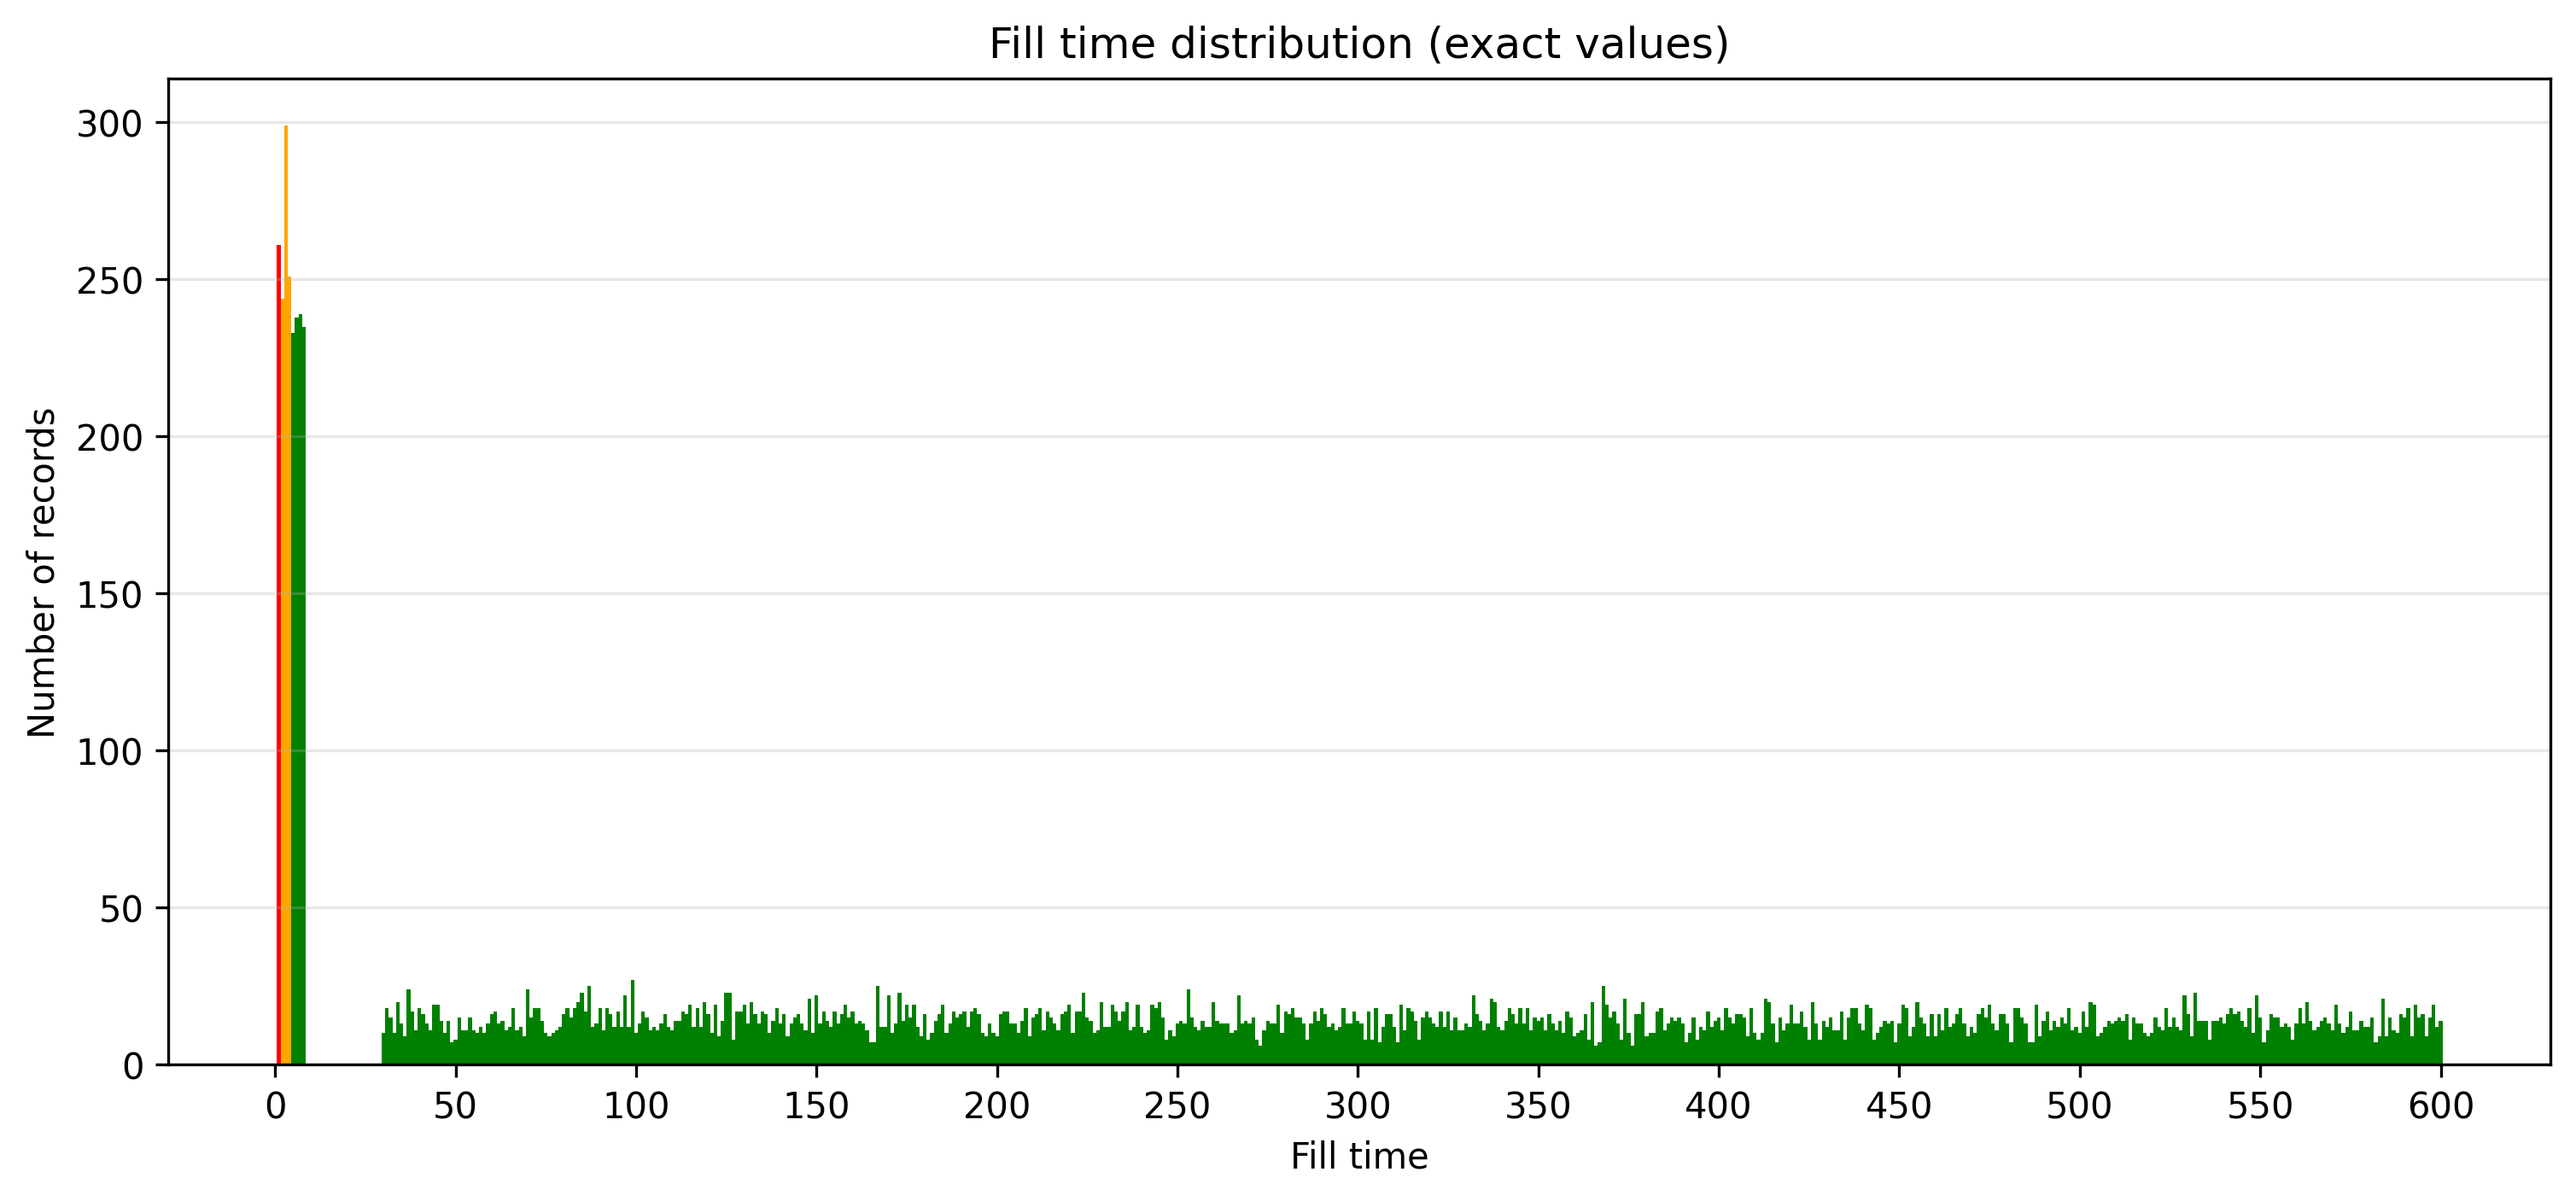
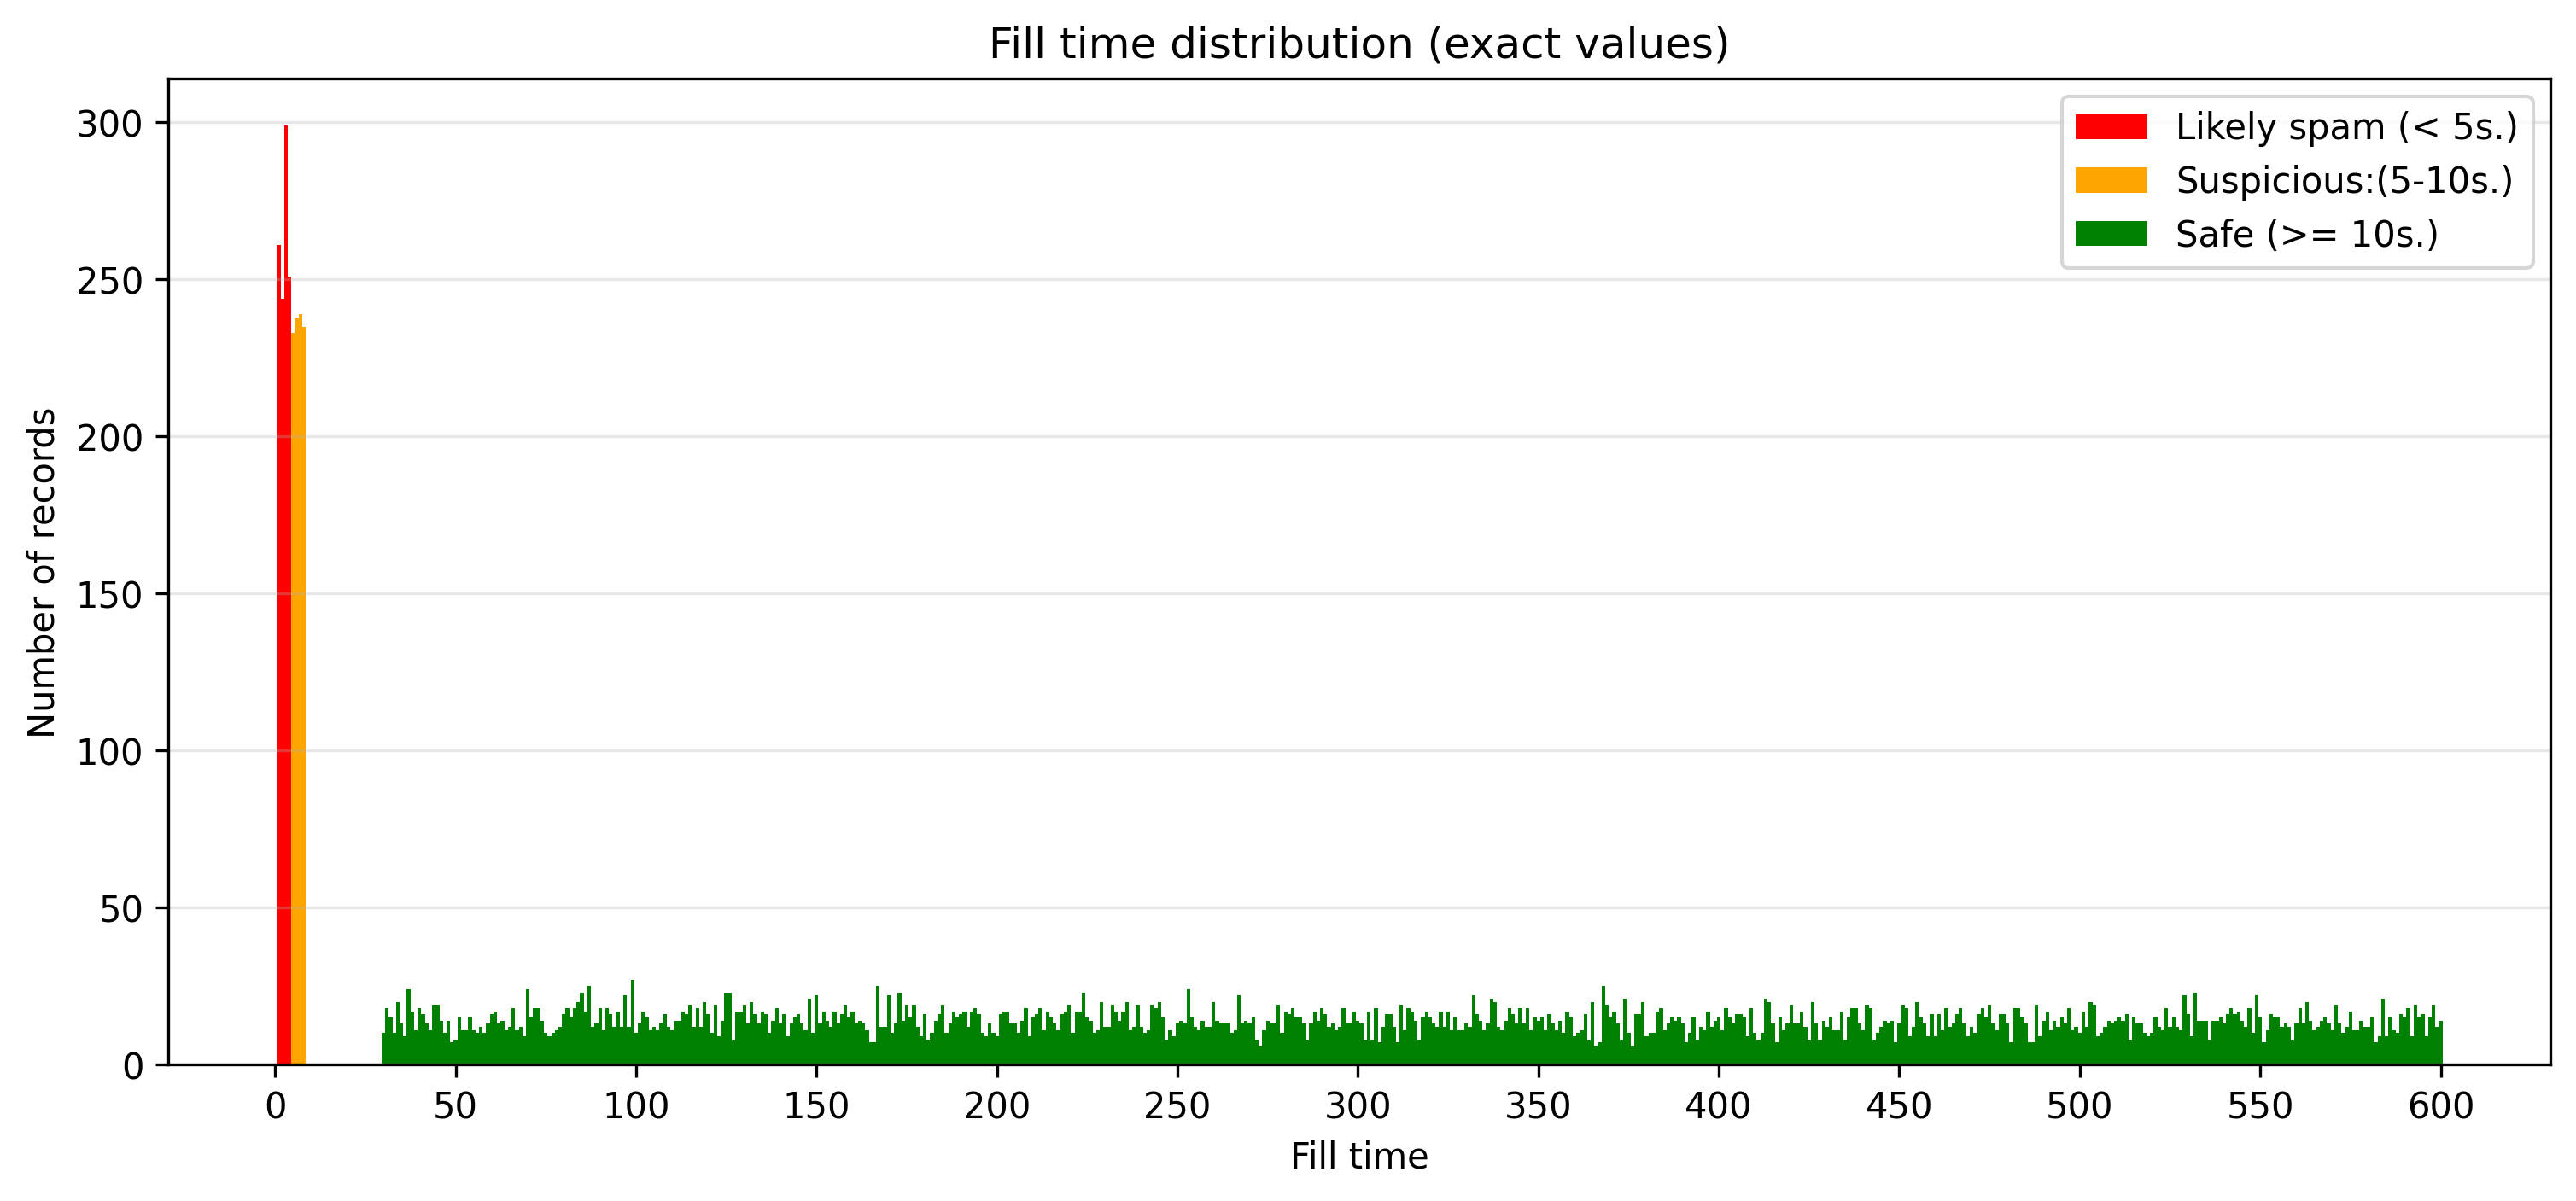
ultimate adjustments and fixes

Changed region(s): [[0.7789, 0.0917, 0.997, 0.2139], [0.0935, 0.2445, 0.1246, 0.8863]]

diff --git a/complete_report.html b/complete_report.html
@@ -175,7 +175,33 @@ function closeModal() {
             </div>
             <div class="card">
                 <h3>Conclusions </h3>
-                <p class="box">The score distribution reveals two distinct high-risk clusters, suggesting the presence of at least two different spam strategies: low-effort automated submissions and more sophisticated adaptive bots attempting to mimic human behavior.</p>
+                <p>The score distribution reveals two distinct high-risk clusters, suggesting the presence of at least two different spam strategies: low-effort automated submissions and more sophisticated adaptive bots attempting to mimic human behavior.</p>
+                <hr>
+                <h4>Scoring:</h4>
+                <table>
+                    <tbody>
+                    
+                        <tr>
+                            <td>Honeypot flag</td>
+                            <td>+100pkt</td>
+                        </tr>
+                    
+                        <tr>
+                            <td>User agent (python-request / SEObot)</td>
+                            <td>+70pkt</td>
+                        </tr>
+                    
+                        <tr>
+                            <td>Fast submit ( < 3s )</td>
+                            <td>+20pkt</td>
+                        </tr>
+                    
+                    </tbody>
+                </table>
+                <h4>Scoring explanation:</h4>
+                <p>The honeypot flag (a frontend form field hidden from regular users) is considered a strong warning signal, although it is not always definitive due to browser autocomplete behavior.
+The user agents 'python-requests' and 'SEObot' are treated as strong warning signals, as they commonly indicate automated or scripted activity.
+Very fast form submission time (< 3 seconds) is treated as a mild warning signal, since it may also result from autocomplete usage or accidental browser/session behavior.</p>
             </div>
 
             <div class="card">
@@ -189,12 +215,29 @@ function closeModal() {
             </div>
 
             <div class="card">
+                <h3>Activity of last max 6 days</h3>
+                <img src="report/plots/activity_over_last_6_days.png" class="plot" onclick="openModal(this.src)">
+                <p class="zoom-hint">Click to zoom</p>
+            </div>
+            <div class="card">
+                <h3>Conclusions </h3>
+                <p class="box">The activity pattern shows a clear and consistent daily cycle, with significantly higher submission volume during daytime hours and reduced activity overnight.
+The calculated hourly baseline successfully captures the expected traffic behavior across different times of day, making it possible to distinguish normal fluctuations from potentially unusual spikes.
+Most detected anomalies occur during peak daytime activity, where submission counts temporarily exceed the normal expected range (mean ±2 standard deviations). These spikes may indicate:
+short-term traffic bursts, automated activity, external referrals, or coordinated submission attempts.
+The anomaly detection model appears effective for identifying statistically unusual behavior while still accounting for natural hourly traffic variation.
+Because the baseline is calculated separately for each hour of the day, nighttime activity is not incorrectly compared against daytime peaks, resulting in more reliable anomaly detection.
+The current analysis is based on a relatively short observation period (6 days), meaning the baseline may still evolve as additional historical data becomes available.
+                            </p>
+            </div>
+
+            <div class="card">
                 <h3>Activity first day example</h3>
                 <img src="report/plots/activity_first_day.png" class="plot" onclick="openModal(this.src)">
                 <p class="zoom-hint">Click to zoom</p>
             </div>
             <div class="card">
-                <h3>Otchers </h3>
+                <h3>Others </h3>
                 <ul>
                     <li>All records: 10000</li>
                     <li>Unique IP: 69</li>
@@ -311,7 +354,7 @@ function closeModal() {
 
     <div class="section">
         <h2>Summary</h2>
-        <p style="font-size: 26px;">There are 1,400 IP addresses with a high probability of spam activity. Blocking these IPs would reduce traffic by 14%.</p>
+        <p style="font-size: 26px;">There are 1,400 IP addresses with a high probability of spam activity. Blocking these IPs would reduce traffic by 14%. <br>A single subnet accounts for 7.5% of all reports, which is an abnormally high concentration of traffic and suggests a common source of activity. Among the most active addresses, several consecutive IP addresses belonging to the same subnet and the same operator (185.220.101.*) appear. This concentration is unlikely for traffic originating from independent users and may indicate the use of a shared infrastructure for automated report generation.</p>
     </div>
 
 </body>

diff --git a/report/templates/report.html b/report/templates/report.html
@@ -175,7 +175,21 @@ function closeModal() {
             </div>
             <div class="card">
                 <h3>Conclusions </h3>
-                <p class="box">{{ conclusions.score }}</p>
+                <p>{{ conclusions.score }}</p>
+                <hr>
+                <h4>Scoring:</h4>
+                <table>
+                    <tbody>
+                    {% for flag, pkt in scoring.items() %}
+                        <tr>
+                            <td>{{ flag }}</td>
+                            <td>{{ pkt }}</td>
+                        </tr>
+                    {% endfor %}
+                    </tbody>
+                </table>
+                <h4>Scoring explanation:</h4>
+                <p>{{ Scoring_explanation }}</p>
             </div>
 
             <div class="card">
@@ -189,12 +203,22 @@ function closeModal() {
             </div>
 
             <div class="card">
+                <h3>Activity of last max 6 days</h3>
+                <img src="{{ images.activity_6_days }}" class="plot" onclick="openModal(this.src)">
+                <p class="zoom-hint">Click to zoom</p>
+            </div>
+            <div class="card">
+                <h3>Conclusions </h3>
+                <p class="box">{{ conclusions.activity_6_days }}</p>
+            </div>
+
+            <div class="card">
                 <h3>Activity first day example</h3>
                 <img src="{{ images.activity_first }}" class="plot" onclick="openModal(this.src)">
                 <p class="zoom-hint">Click to zoom</p>
             </div>
             <div class="card">
-                <h3>Otchers </h3>
+                <h3>Others </h3>
                 <ul>
                     <li>All records: {{ stats.records }}</li>
                     <li>Unique IP: {{ stats.Unique_IPs }}</li>

diff --git a/analyze.py b/analyze.py
@@ -2,12 +2,13 @@ import argparse
 import time
 from datetime import datetime, timedelta
 from pathlib import Path
-
+import matplotlib.dates as mdates
 import pandas as pd
 import matplotlib.pyplot as plt
+from matplotlib.patches import Patch
 
 from analyze_ip import analyze_ip_list
-from generate_report import generate_report, print_report
+from generate_report import generate_report
 from report.get_top import get_top_red_ips
 
 MAX_GREEN = 20
@@ -62,8 +63,6 @@ def add_features_and_score(df):
     return df
 
 
-
-
 def plot_score_distribution(df):
     score_counts = df["score"].value_counts().sort_index()
 
@@ -89,12 +88,19 @@ def plot_score_distribution(df):
 
     plt.grid(True, axis="y", alpha=0.3)
     plt.xticks(range(0, max(score_counts.index) + 1, 10))
+    legend_elements = [
+        Patch(facecolor="green", label=f"Safe (< {MAX_GREEN})"),
+        Patch(facecolor="orange", label=f"False alarm / Suspicious ({MAX_GREEN}-{MAX_ORANGE - 1})"),
+        Patch(facecolor="red", label=f"Likely spam (>= {MAX_ORANGE})")
+    ]
+
+    plt.legend(handles=legend_elements)
     plt.savefig("report/plots/score_distribution.png", dpi=300, bbox_inches="tight")
-    # plt.show()
+    plt.close()
 
 def plot_fill_time_vs_spam(df):
-    RED_MAX_FILL_TIME = 2
-    ORAGNE_MAX_FILL_TIME = 5
+    RED_MAX_FILL_TIME = 5
+    ORAGNE_MAX_FILL_TIME = 10
     fill_time_counts = df["form_fill_time_sec"].value_counts().sort_index()
 
     plt.figure(figsize=(12, 5))
@@ -117,8 +123,17 @@ def plot_fill_time_vs_spam(df):
 
     plt.grid(True, axis="y", alpha=0.3)
     plt.xticks(range(0, max(fill_time_counts.index) + 1, 50))
+
+    legend_elements = [
+        Patch(facecolor="red", label=f"Likely spam (< {RED_MAX_FILL_TIME}s.)"),
+        Patch(facecolor="orange", label=f"Suspicious:({RED_MAX_FILL_TIME}-{ORAGNE_MAX_FILL_TIME}s.)"),
+        Patch(facecolor="green", label=f"Safe (>= {ORAGNE_MAX_FILL_TIME}s.)")
+    ]
+
+    plt.legend(handles=legend_elements)
+
     plt.savefig("report/plots/fill_time_vs_spam.png", dpi=300, bbox_inches="tight")
-    # plt.show()
+    plt.close()
 
 def plot_activity_over_time(df):
     activity = df.set_index("timestamp").resample("h").size()
@@ -143,7 +158,95 @@ def plot_activity_over_time(df):
     plt.grid(True, axis="y", alpha=0.3)
     plt.xticks(rotation=45)
     plt.savefig("report/plots/activity_over_time.png", dpi=300, bbox_inches="tight")
-    # plt.show()
+    plt.close()
+
+def plot_activity_over_last_6_days(df):
+    df = df[
+        df["timestamp"] >=
+        df["timestamp"].max() - pd.Timedelta(days=6)
+    ]
+
+    activity = (
+        df.set_index("timestamp")
+        .resample("h")
+        .size()
+        .rename("count")
+        .to_frame()
+    )
+
+    activity["hour"] = activity.index.hour
+
+    hourly_stats = (
+        activity.groupby("hour")["count"]
+        .agg(["mean", "std"])
+        .fillna(0)
+    )
+
+    activity["mean"] = activity["hour"].map(hourly_stats["mean"])
+    activity["std"] = activity["hour"].map(hourly_stats["std"])
+
+    activity["upper"] = activity["mean"] + 2 * activity["std"]
+    activity["lower"] = (activity["mean"] - 2 * activity["std"]).clip(lower=0)
+
+    anomalies = activity[activity["count"] > activity["upper"]]
+
+    colors = [
+        "red" if val > upper else
+        "orange" if val > mean else
+        "green"
+        for val, upper, mean in zip(
+            activity["count"],
+            activity["upper"],
+            activity["mean"]
+        )
+    ]
+
+    plt.figure(figsize=(14, 6))
+
+    plt.bar(
+        activity.index,
+        activity["count"],
+        color=colors,
+        width=0.03,
+        label="Activity"
+    )
+
+    plt.plot(activity.index, activity["mean"], linewidth=2, label="Hourly mean")
+
+    plt.fill_between(
+        activity.index,
+        activity["lower"],
+        activity["upper"],
+        alpha=0.2,
+        label="Normal range (±2 std)"
+    )
+
+    plt.scatter(anomalies.index, anomalies["count"], s=40, label="Anomaly")
+
+    # 1. X-axis: tylko godziny, co 3h
+    plt.gca().xaxis.set_major_locator(mdates.HourLocator(interval=4))
+    plt.gca().xaxis.set_major_formatter(mdates.DateFormatter("%H:%M"))
+
+    # 2. Linie pionowe = zmiana dnia
+    days = activity.index.normalize().unique()
+    for day in days:
+        plt.axvline(day, color="gray", linestyle="--", alpha=0.3)
+
+    plt.title("Activity over time with anomaly detection")
+    plt.xlabel("Hour of day")
+    plt.ylabel("Number of submissions")
+
+    plt.grid(True, axis="y", alpha=0.3)
+    plt.xticks(rotation=90)
+
+    plt.legend()
+
+    plt.savefig(
+        "report/plots/activity_over_last_6_days.png",
+        dpi=300,
+        bbox_inches="tight"
+    )
+    plt.close()
 
 
 def plot_activity_first_day(df):
@@ -182,7 +285,7 @@ def plot_activity_first_day(df):
     plt.xticks(rotation=45)
     plt.tight_layout()
     plt.savefig("report/plots/activity_first_day.png", dpi=300, bbox_inches="tight")
-    # plt.show()
+    plt.close()
 
 
 def main():
@@ -222,9 +325,10 @@ def main():
     plot_fill_time_vs_spam(df)
     plot_activity_over_time(df)
     plot_activity_first_day(df)
+    plot_activity_over_last_6_days(df)
 
     t4 = time.time()
-    print(f"[OK] Generated 4 plots in {t4 - t3:.3f}s")
+    print(f"[OK] Generated 5 plots in {t4 - t3:.3f}s")
 
     top_10_ips = get_top_red_ips(df)
     list = top_10_ips.index.tolist()

diff --git a/generate_report.py b/generate_report.py
@@ -30,9 +30,21 @@ def generate_report(df, top10_analyze, filename):
 
         }
 
+    scoring = {"Honeypot flag": "+100pkt",
+               "User agent (python-request / SEObot)": "+70pkt",
+               "Fast submit ( < 3s )": "+20pkt",
+    }
+    Scoring_explanation = "The honeypot flag (a frontend form field hidden from regular users)"\
+                          " is considered a strong warning signal, although it is not always definitive due to browser"\
+                          " autocomplete behavior.\nThe user agents 'python-requests' and 'SEObot' are treated as strong"\
+                          " warning signals, as they commonly indicate automated or scripted activity.\nVery fast form "\
+                          "submission time (< 3 seconds) is treated as a mild warning signal, since it may also result "\
+                          "from autocomplete usage or accidental browser/session behavior."
+
     images = {
         "activity_first": "report/plots/activity_first_day.png",
         "activity": "report/plots/activity_over_time.png",
+        "activity_6_days": "report/plots/activity_over_last_6_days.png",
         "fill_time": "report/plots/fill_time_vs_spam.png",
         "score_distribution": "report/plots/score_distribution.png",
     }
@@ -53,7 +65,9 @@ def generate_report(df, top10_analyze, filename):
         images=images,
         conclusions=conclusions,
         top_10_ips=top_10_ips,
-        top10_analyze=top10_analyze
+        top10_analyze=top10_analyze,
+        scoring=scoring,
+        Scoring_explanation=Scoring_explanation
     )
 
     with open("complete_report.html", "w", encoding="utf-8") as f:

diff --git a/report/conclusions.py b/report/conclusions.py
@@ -3,6 +3,14 @@ handy_conclusions = {     "status": "done",
                    "fill_time": "The fill-time distribution is multimodal, indicating at least three distinct behavioral populations: automated submissions (<5s), fast interactions (5–10s), and normal user behavior (>30s). The presence of a stable peak  around 5–10 seconds suggests legitimate rapid users rather than misclassified bots.",
                    "activity":"The activity over time shows a highly irregular but continuous pattern of submissions, with no significant idle periods. Multiple recurring spikes (up to ~35 submissions per interval) suggest automated or semi-automated batch submissions rather than organic user behavior. The absence of clear daily or weekly human activity cycles indicates that a substantial portion of traffic is likely non-human. The pattern is consistent with distributed bot activity or scheduled spam campaigns operating at low but persistent intensity. Overall, the system is exposed to continuous background bot traffic with periodic bursts of higher intensity.",
                    "activity_one_day": "",
-                    "summary": "There are 1,400 IP addresses with a high probability of spam activity. Blocking these IPs would reduce traffic by 14%."
+                            "activity_6_days": """The activity pattern shows a clear and consistent daily cycle, with significantly higher submission volume during daytime hours and reduced activity overnight.
+The calculated hourly baseline successfully captures the expected traffic behavior across different times of day, making it possible to distinguish normal fluctuations from potentially unusual spikes.
+Most detected anomalies occur during peak daytime activity, where submission counts temporarily exceed the normal expected range (mean ±2 standard deviations). These spikes may indicate:
+short-term traffic bursts, automated activity, external referrals, or coordinated submission attempts.
+The anomaly detection model appears effective for identifying statistically unusual behavior while still accounting for natural hourly traffic variation.
+Because the baseline is calculated separately for each hour of the day, nighttime activity is not incorrectly compared against daytime peaks, resulting in more reliable anomaly detection.
+The current analysis is based on a relatively short observation period (6 days), meaning the baseline may still evolve as additional historical data becomes available.
+                            """,
+                    "summary": "There are 1,400 IP addresses with a high probability of spam activity. Blocking these IPs would reduce traffic by 14%. <br>A single subnet accounts for 7.5% of all reports, which is an abnormally high concentration of traffic and suggests a common source of activity. Among the most active addresses, several consecutive IP addresses belonging to the same subnet and the same operator (185.220.101.*) appear. This concentration is unlikely for traffic originating from independent users and may indicate the use of a shared infrastructure for automated report generation."
 }
 

diff --git a/report/conclusions_pattern.py b/report/conclusions_pattern.py
@@ -3,5 +3,6 @@ handy_conclusions = {     "status": "not-done",
                           "fill_time": "do it yourself",
                           "activity":"do it yourself",
                           "activity_one_day": "do it yourself",
+                          "activity_6_days": "do it yourself",
                           "summary": "do it yourself"
 }